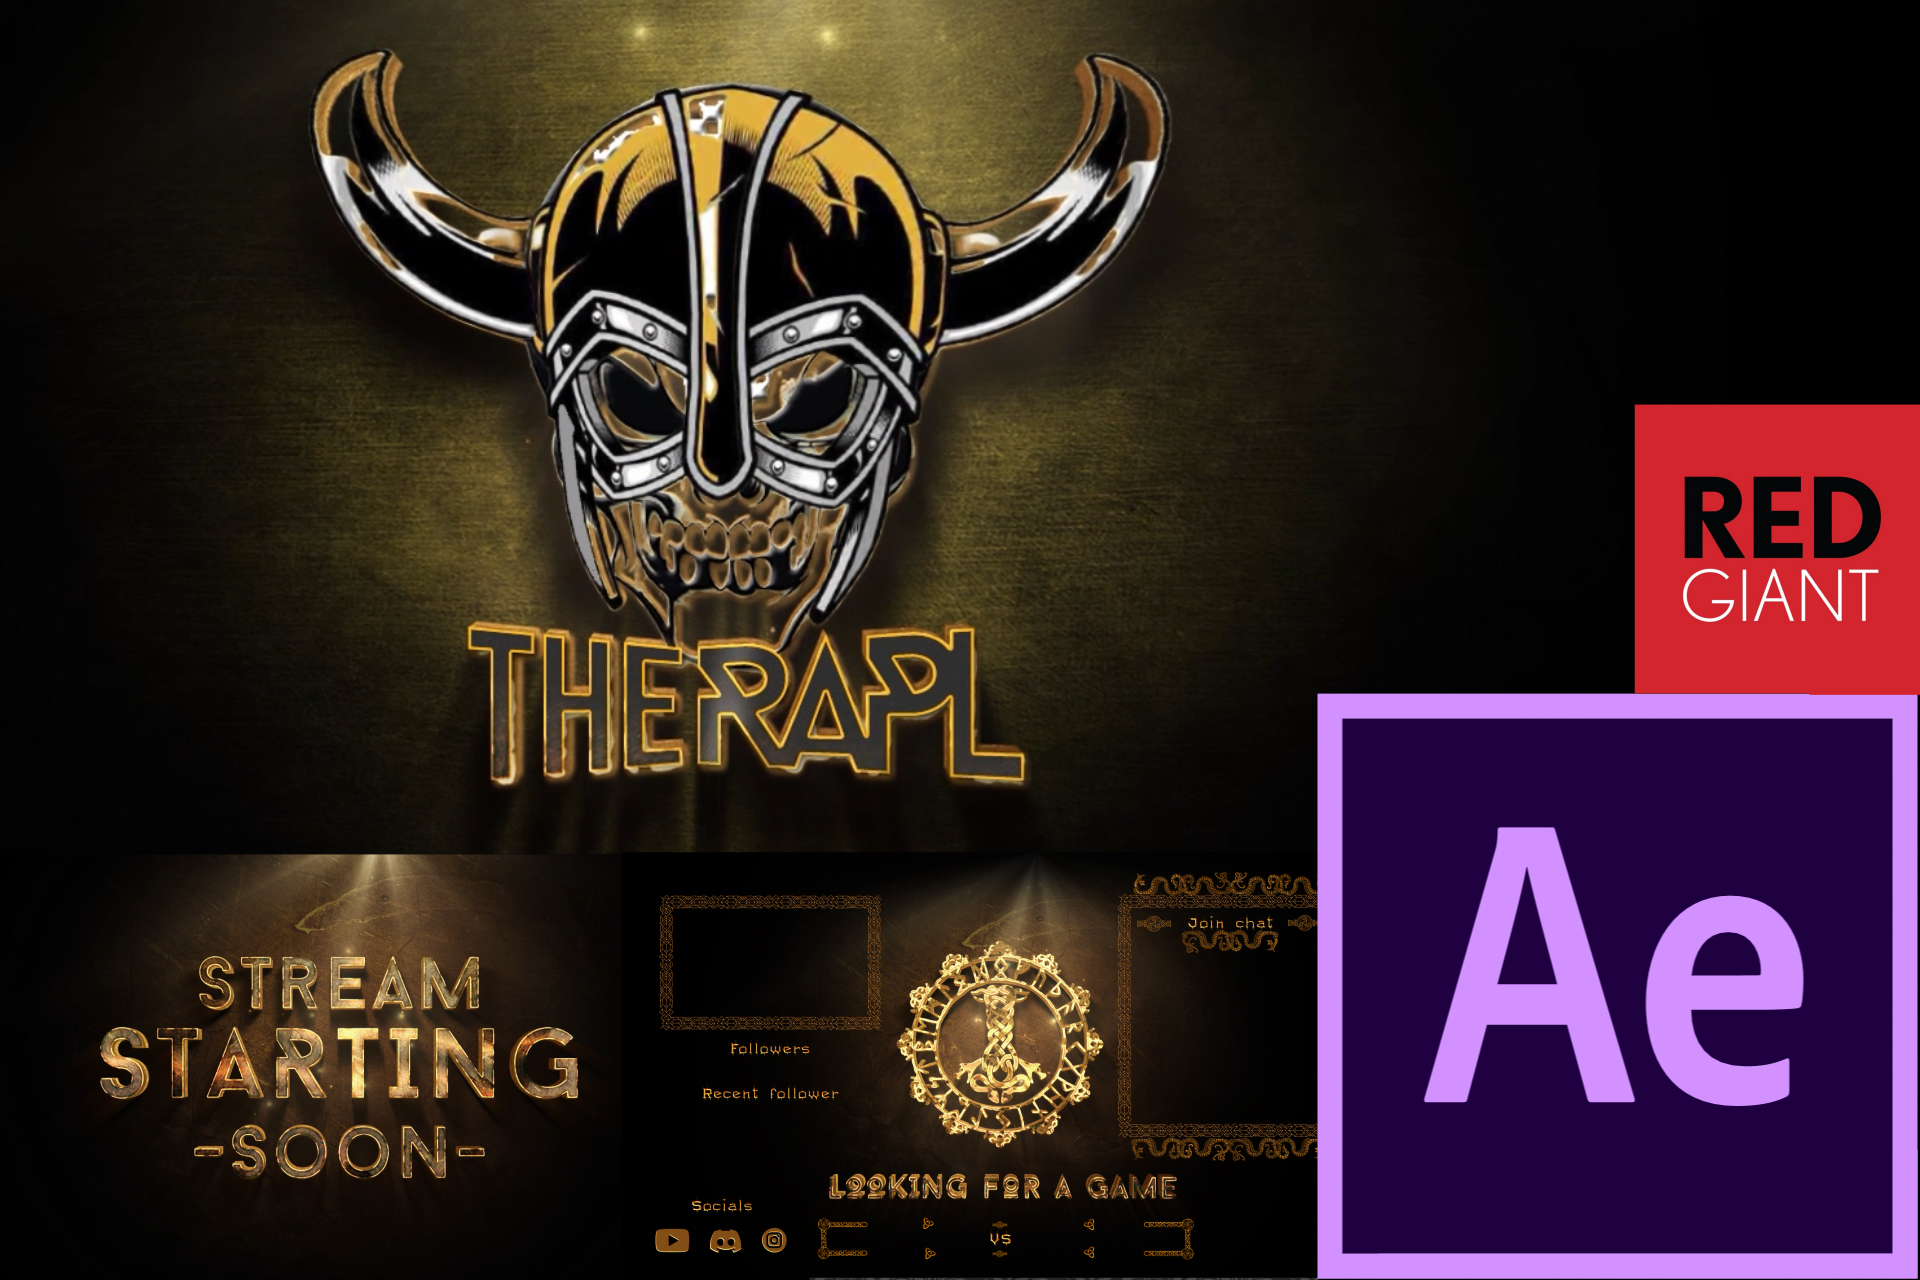
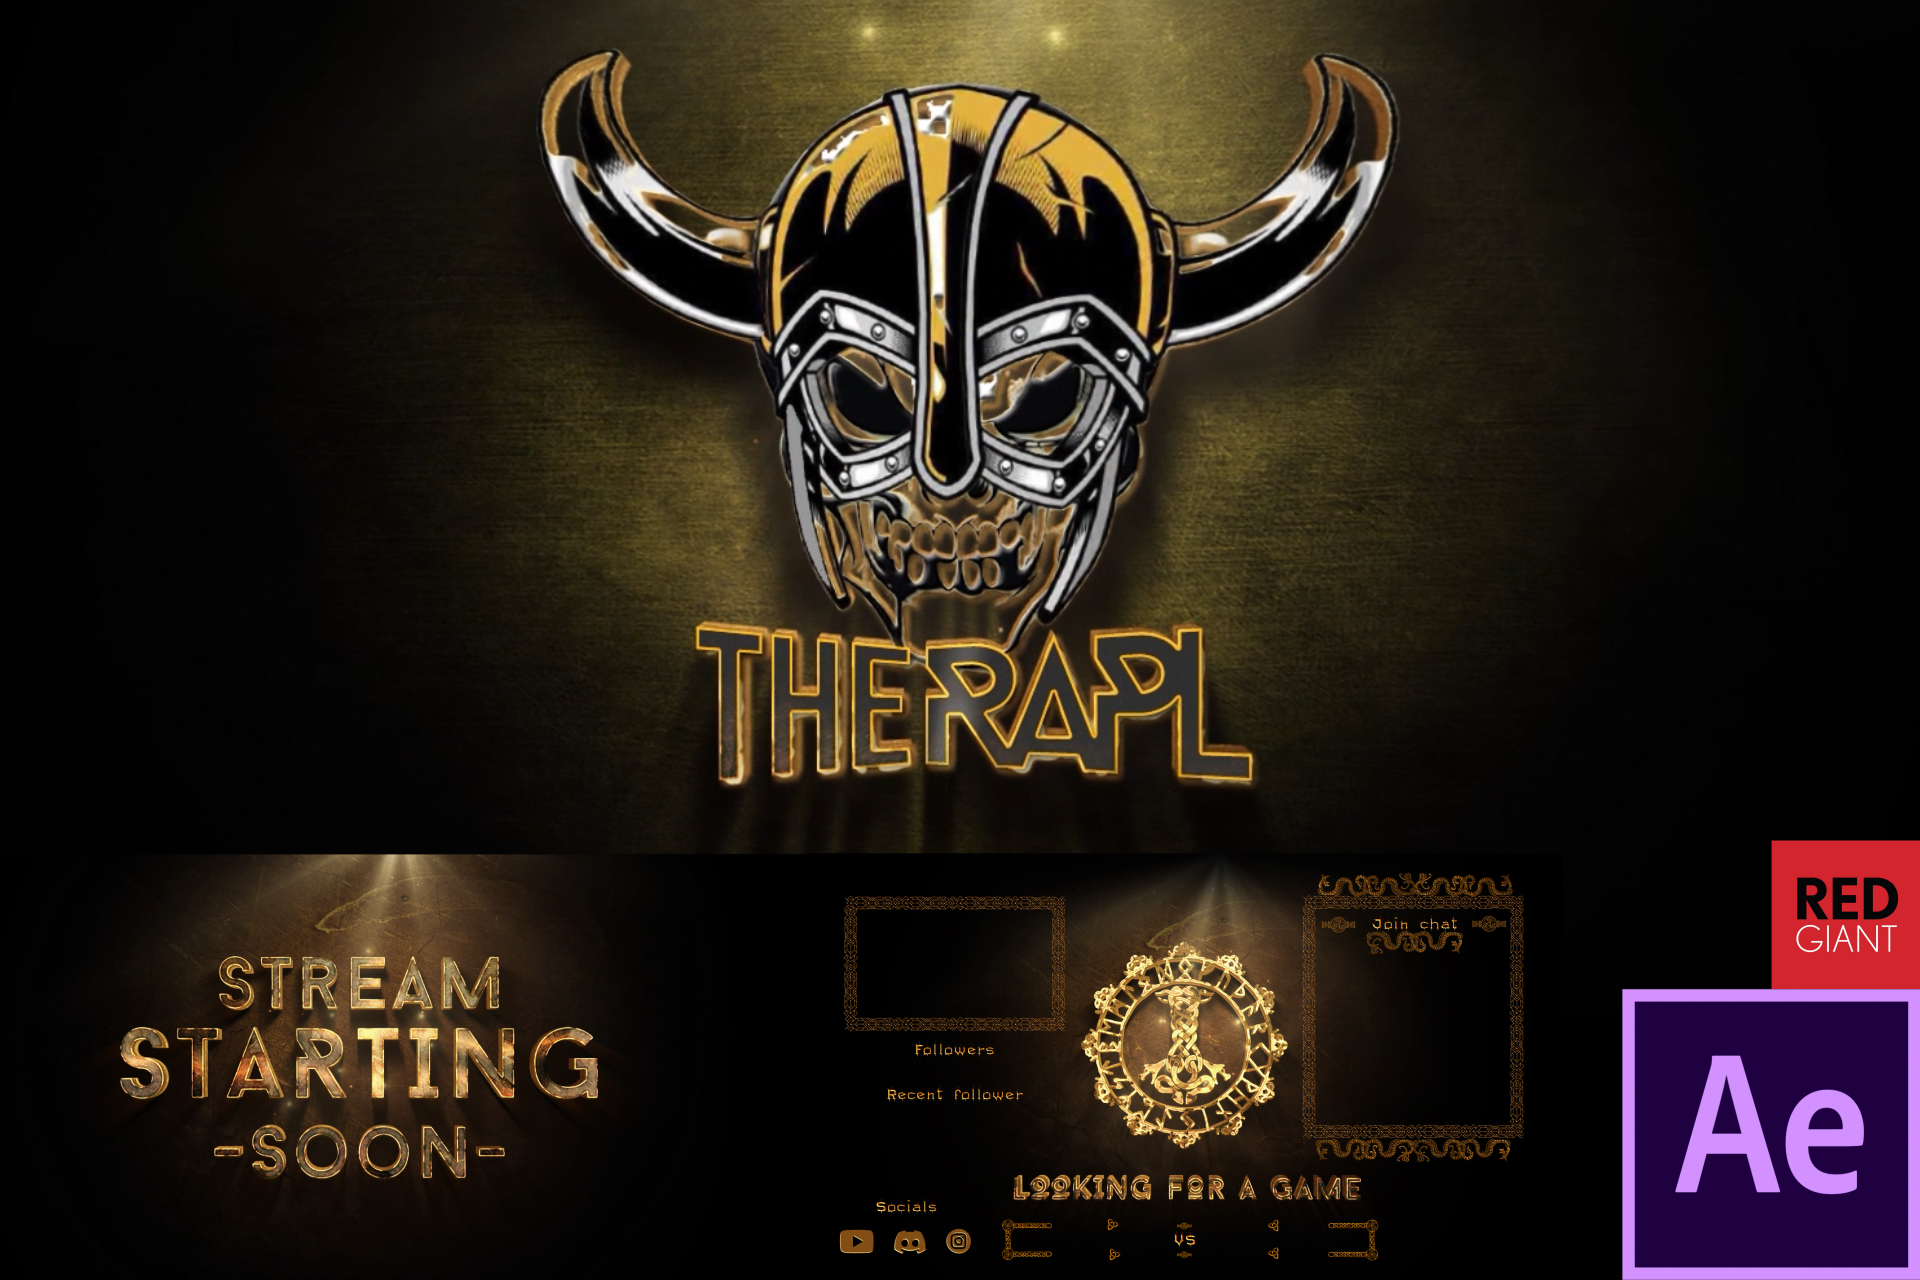
edited new gallery pictures

diff --git a/index.html b/index.html
@@ -535,7 +535,7 @@
               
                 <!-- Your picture -->
                 <img
-                  src="img/gallery-3.jpg"
+                  src="img/gallery-6.jpg"
                   itemprop="thumbnail"
                   alt="This is my work"
                   class="img-fluid"
